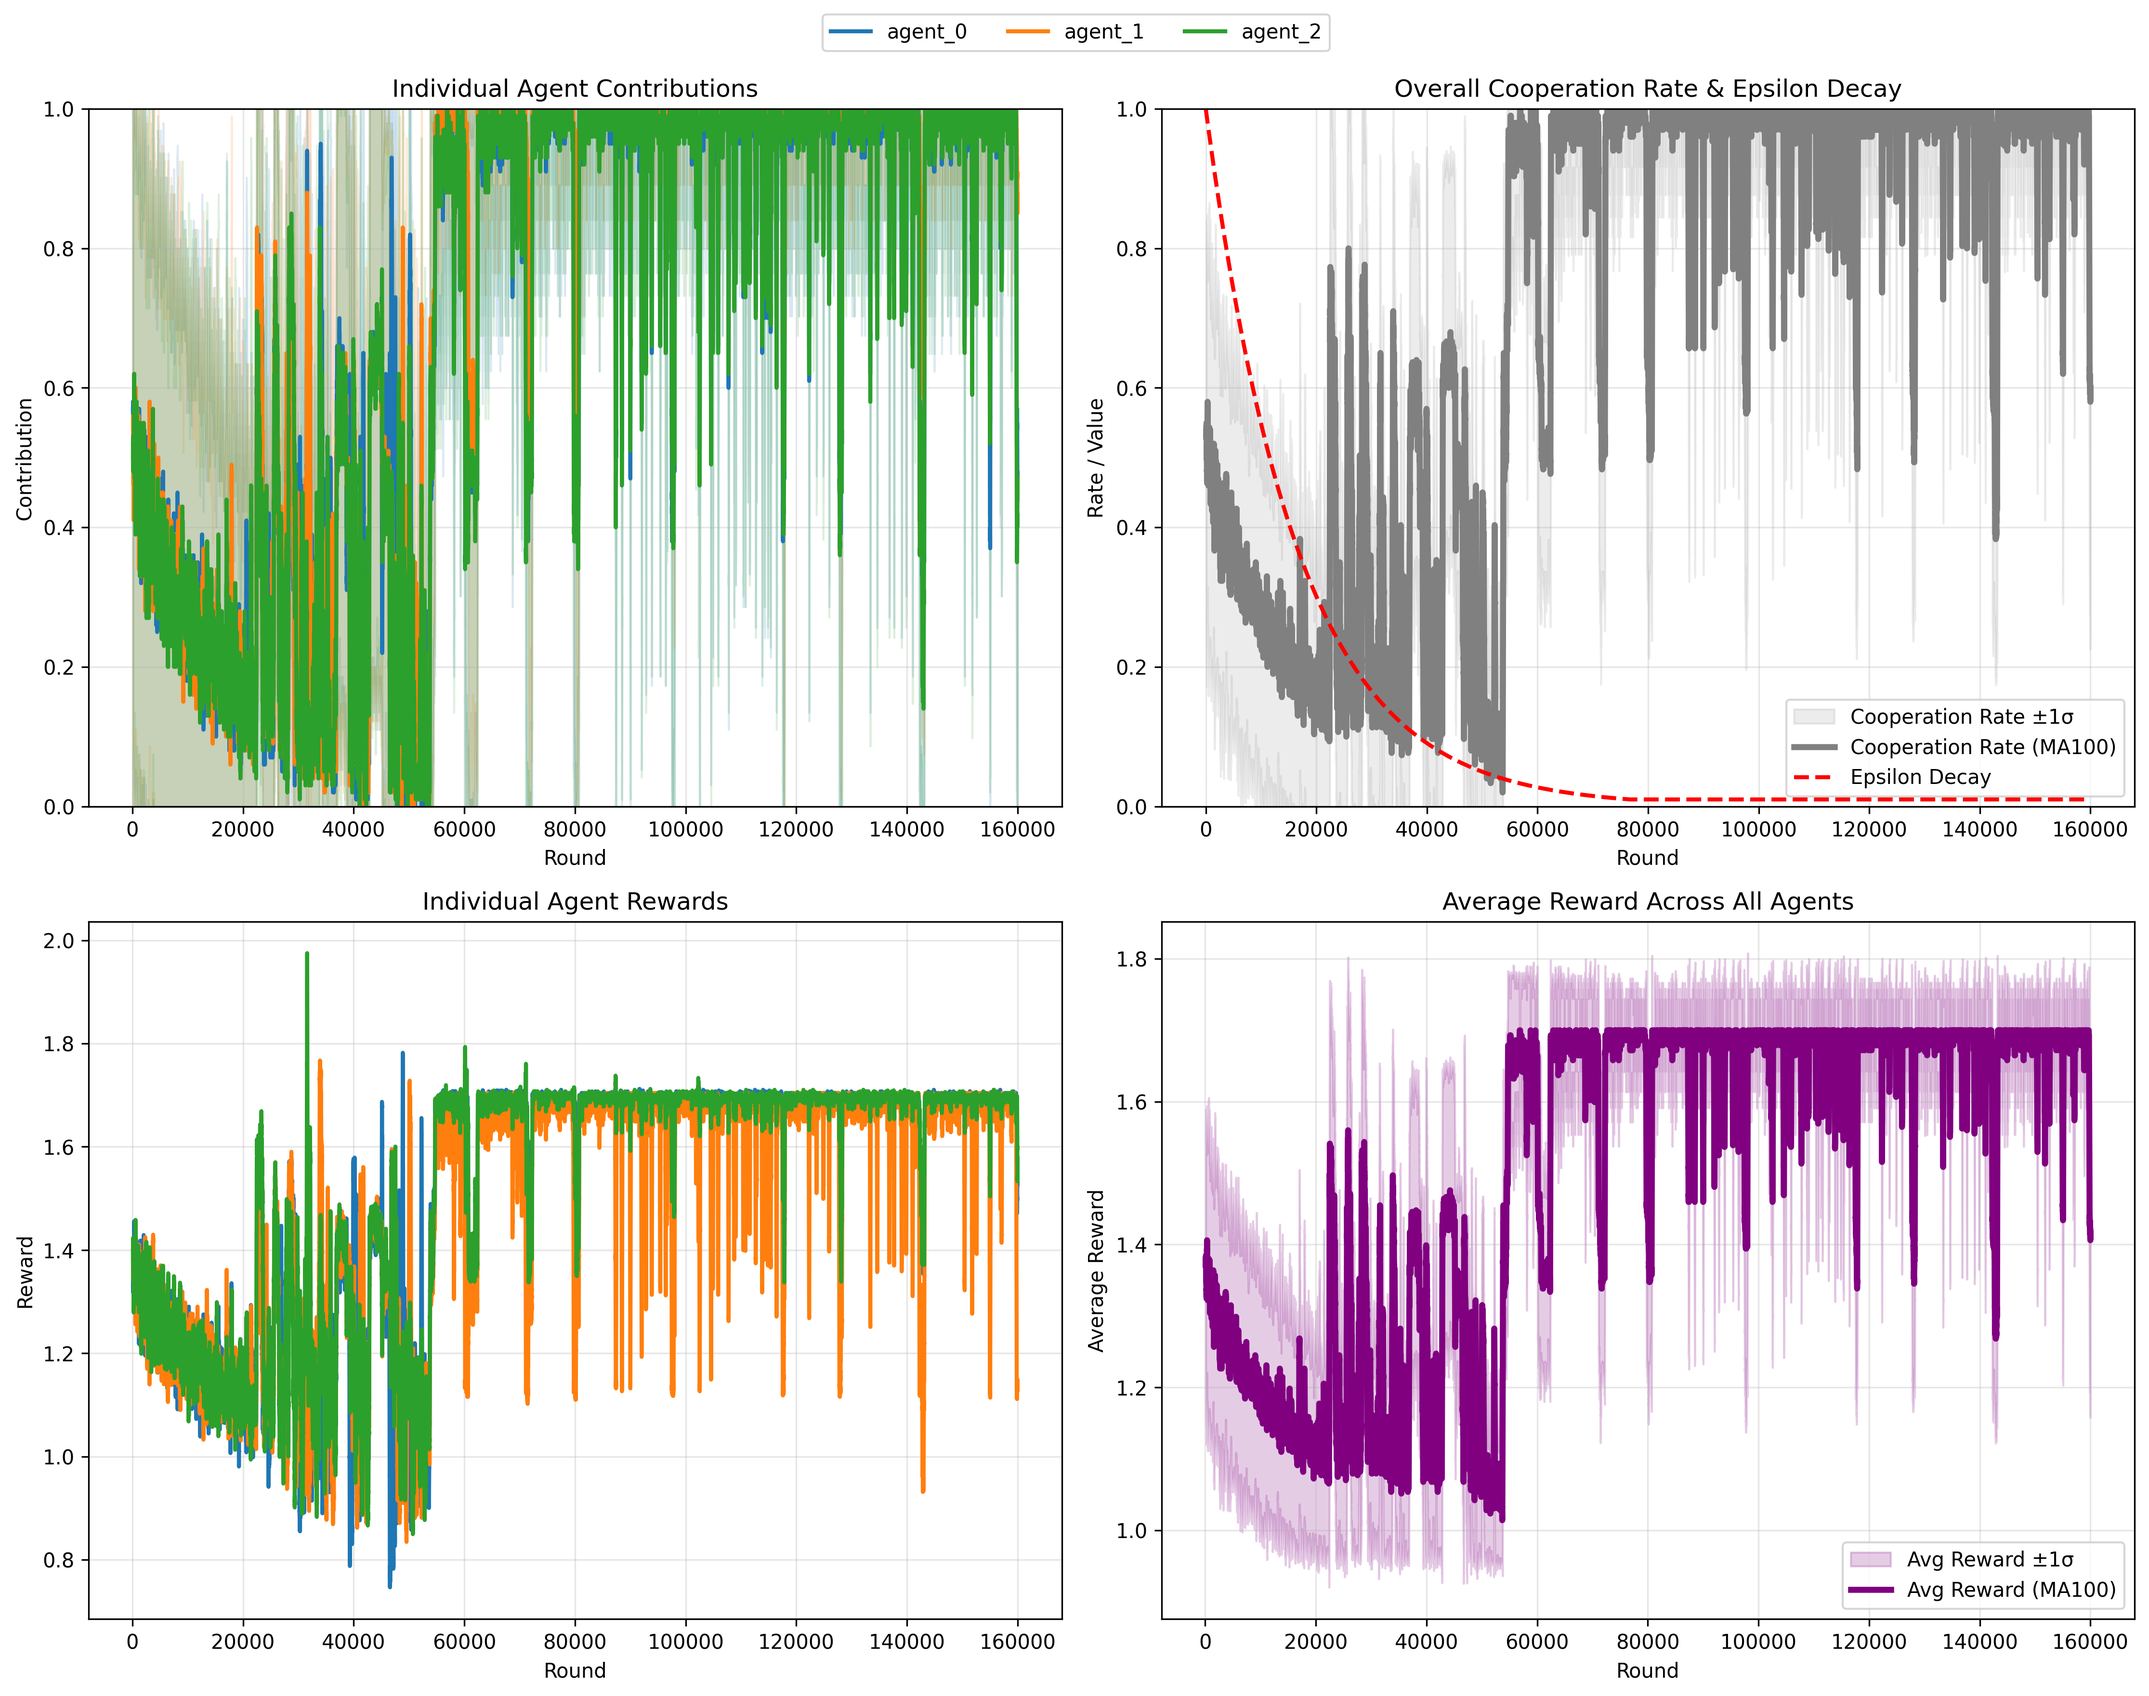
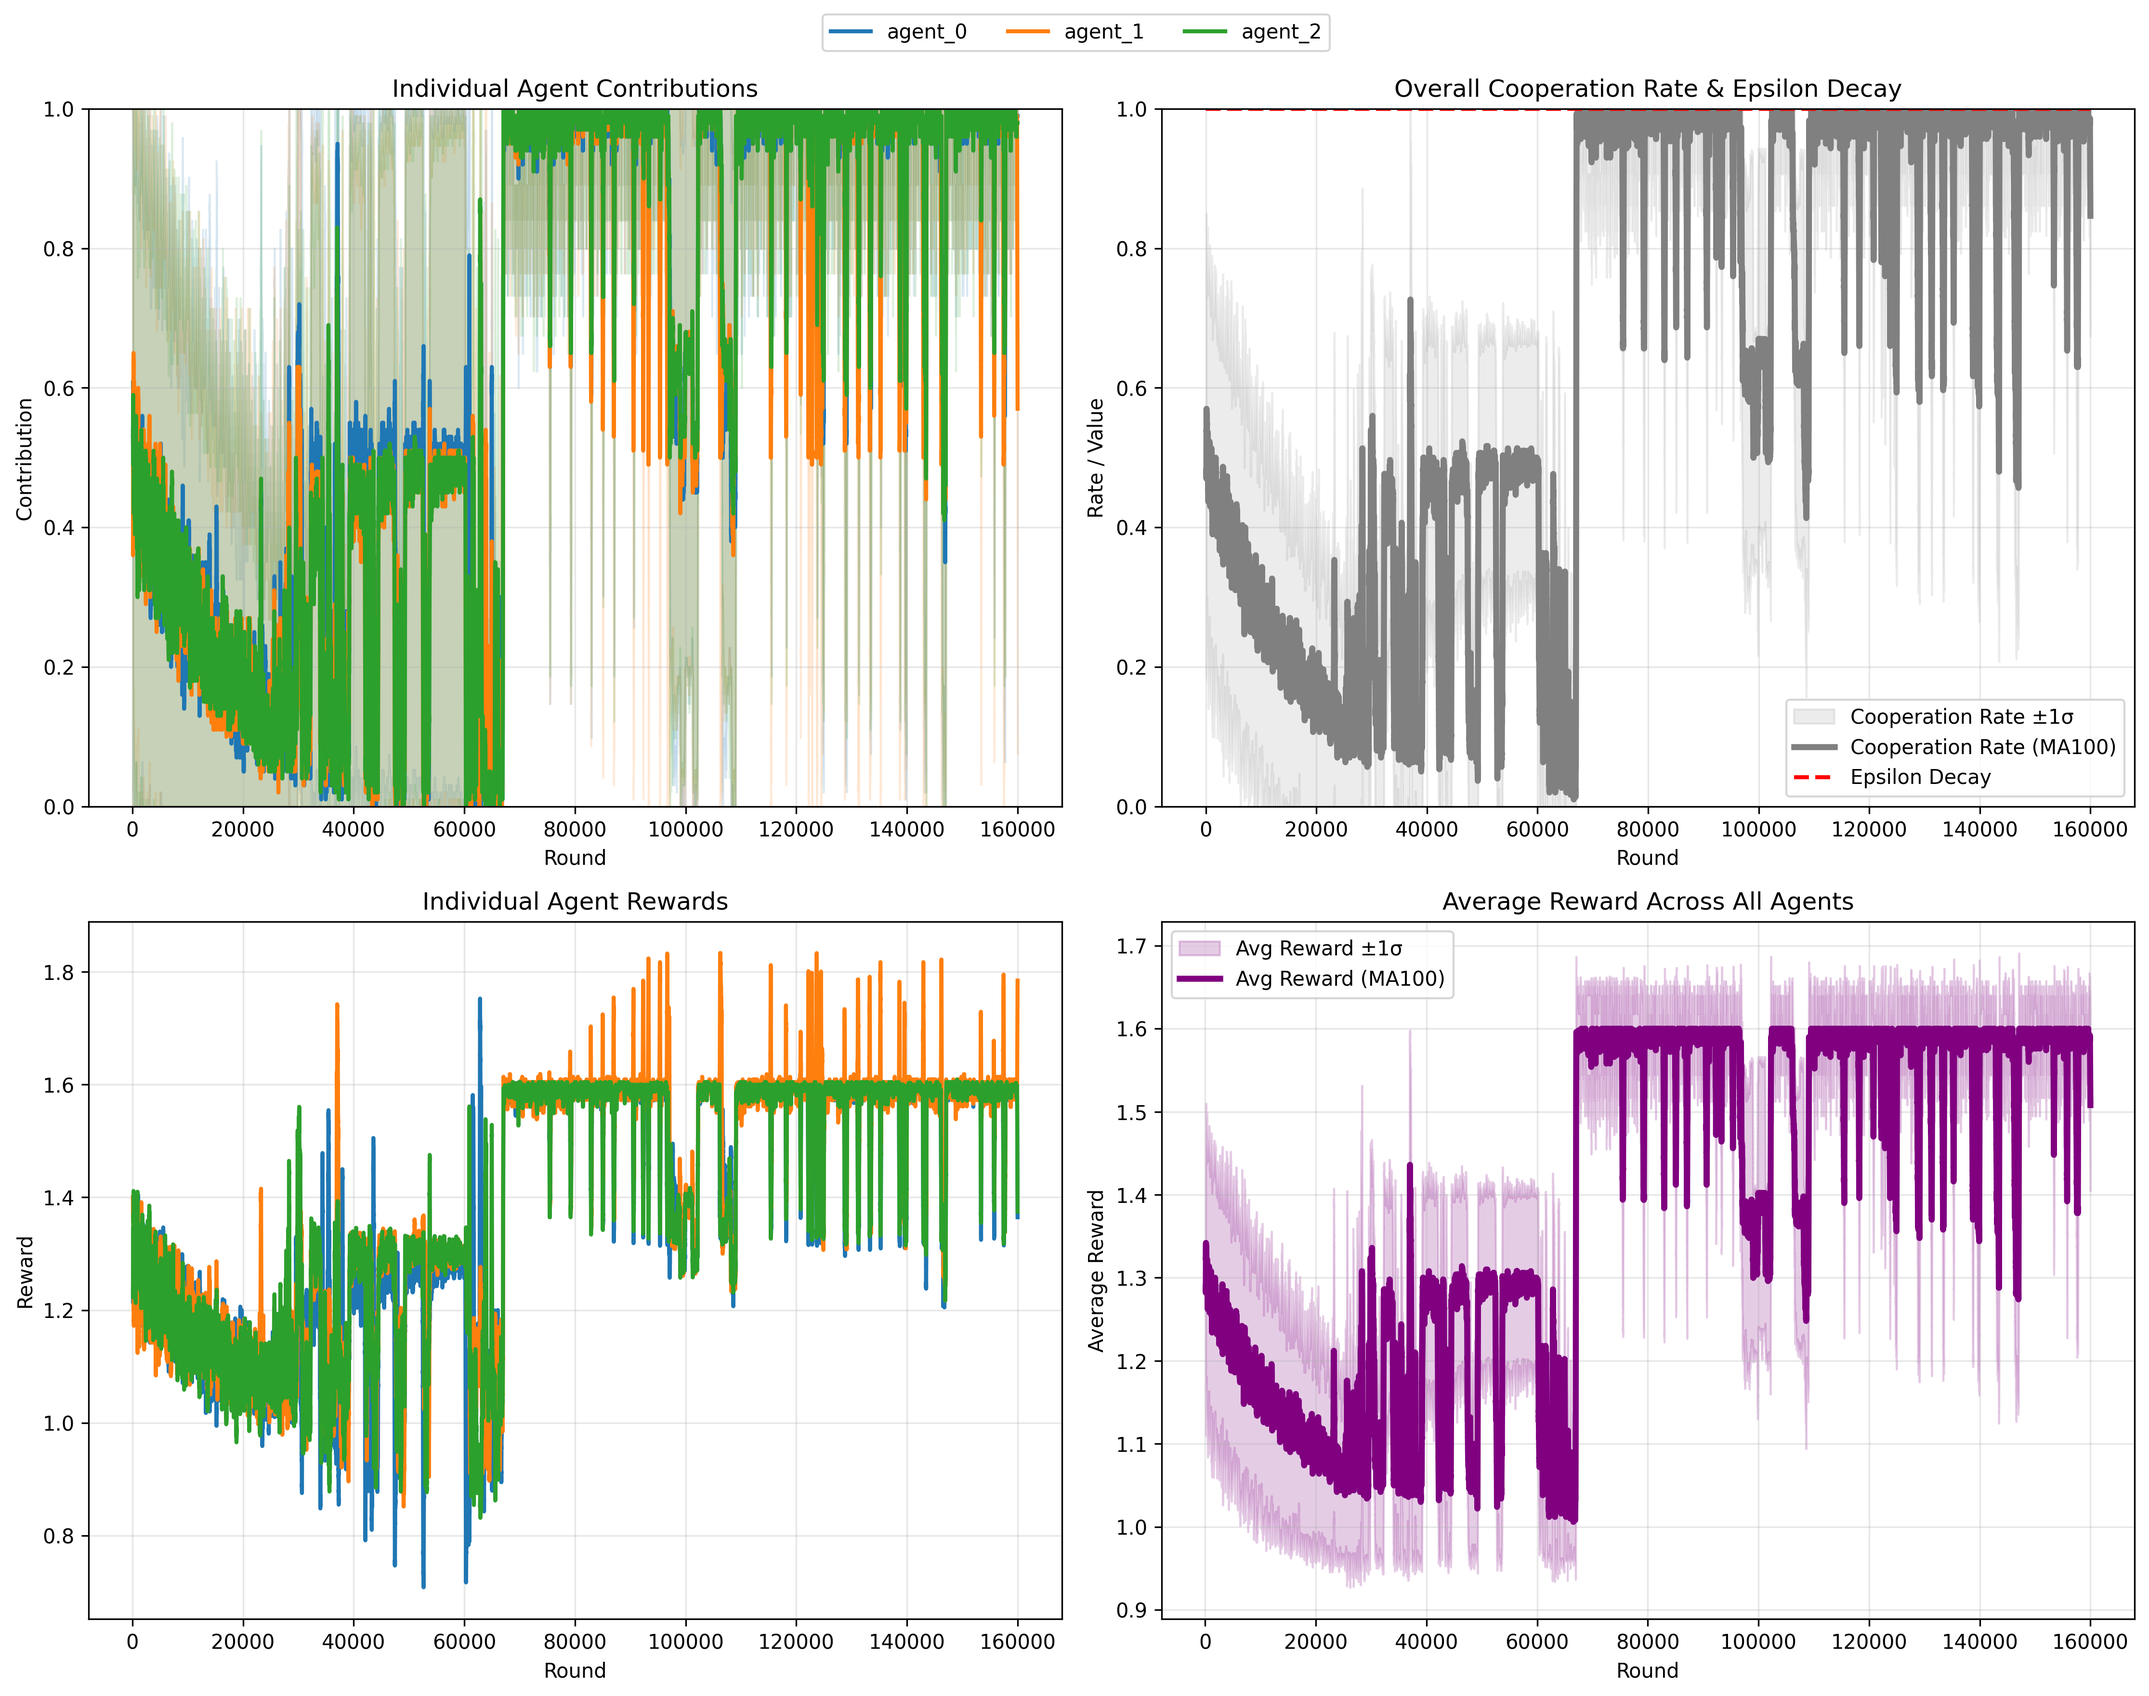
small fixes

diff --git a/agent.py b/agent.py
@@ -1,20 +1,19 @@
 import numpy as np
 from typing import Dict, Tuple
 
-def calculate_epsilon(initial_epsilon: float, decay_rate: float, step: int, min_epsilon: float) -> float:
+def calculate_epsilon(epsilon: float, decay_rate: float, min_epsilon: float) -> float:
     """
     Calculate epsilon value for given step using exponential decay.
     
     Args:
-        initial_epsilon: Initial epsilon value
+        epsilon: Current epsilon value
         decay_rate: Decay rate per step
-        step: Current step number
         min_epsilon: Minimum epsilon value
         
     Returns:
         Current epsilon value
     """
-    return max(min_epsilon, initial_epsilon * (decay_rate ** step))
+    return max(min_epsilon, epsilon * decay_rate)
 
 class TabularQLearningAgent:
     """
@@ -90,7 +89,7 @@ class TabularQLearningAgent:
             done: Whether episode is done
         """
         current_q = self.q_table[state, action]
-        
+
         # Q-learning update rule
         if done:
             target_q = reward
@@ -105,8 +104,7 @@ class TabularQLearningAgent:
         
         # Decay epsilon after each learning step
         if self.epsilon > self.epsilon_min:
-            self.epsilon *= self.epsilon_decay
-            self.epsilon = max(self.epsilon, self.epsilon_min)
+            self.epsilon = calculate_epsilon(self.epsilon, self.epsilon_decay,  self.epsilon_min)
     
 
     
@@ -124,16 +122,9 @@ class TabularQLearningAgent:
         # Learn from previous experience
         self.update_q_table(state, action, reward, next_observation, done)
     
-    def end_episode(self):
+    def increment_episode(self):
         """
-        Handle end of episode cleanup and statistics.
+        Increment episode count.
         """
         self.episode_count += 1
-    
-    def get_stats(self) -> Dict[str, float]:
-        """Get agent statistics."""
-        return {
-            "episode_count": self.episode_count,
-            "step_count": self.step_count,
-            "epsilon": self.epsilon
-        }
+

diff --git a/main.py b/main.py
@@ -106,7 +106,7 @@ def main():
         
         # End episode for all agents
         for agent in agents.values():
-            agent.end_episode()
+            agent.increment_episode()
     
     print("\nTraining completed!")
     
@@ -134,16 +134,8 @@ def main():
     print("FINAL RESULTS")
     print("=" * 60)
     print(f"Total Rounds: {round_counter}")
-    print(f"Final Overall Cooperation Rate: {round_cooperation_rates[-1]:.2%}")
     
     # Agent statistics
-    print("\nAgent Statistics:")
-    for agent_id, agent in agents.items():
-        contributions = round_contributions[agent_id]
-        recent_contrib = np.mean(contributions[-min(100, len(contributions)):]) if contributions else 0
-        stats = agent.get_stats()
-        print(f"  {agent_id}: Recent Avg Contribution: {recent_contrib:.2f}, "
-              f"Steps: {stats['step_count']}, Epsilon: {stats['epsilon']:.3f}")
 
 if __name__ == "__main__":
     main()

diff --git a/plotting.py b/plotting.py
@@ -181,7 +181,7 @@ def create_training_plots(round_contributions: Dict[str, List],
     # Calculate and plot Epsilon Decay using centralized function
     epsilon_values = []
     for round_num in range(1, round_counter + 1):
-        epsilon_val = calculate_epsilon(epsilon, epsilon_decay, round_num, epsilon_min)
+        epsilon_val = calculate_epsilon(epsilon, epsilon_decay, epsilon_min)
         epsilon_values.append(epsilon_val)
     
     ax2.plot(range(1, len(epsilon_values) + 1), epsilon_values, 'red', 

diff --git a/config.py b/config.py
@@ -2,7 +2,7 @@
 N_AGENTS = 3
 N_ROUNDS = 160000
 N_HISTORY = 1
-PGG_MULTIPLIER =1.7           
+PGG_MULTIPLIER =1.6           
 INITIAL_ENDOWMENT = 1       
 
 # Learning Parameters
@@ -14,7 +14,7 @@ EPSILON_MIN = 0.01
 
 # Training Parameters
 N_EPISODES = 1                # Number of episodes to run
-PRINT_EVERY = 1000             # Print progress every N rounds
+PRINT_EVERY = 10000             # Print progress every N rounds
 MOVING_AVERAGE_WINDOW = 100   # Window size for moving average plots
 
 

diff --git a/environment.py b/environment.py
@@ -8,8 +8,8 @@ from gymnasium import spaces
 class TabularPublicGoodsGame(ParallelEnv):
     """
     Public Goods Game environment for tabular Q-learning.
-    
-    Each agent can either contribute (1) or not contribute (0) a fixed amount.
+
+    Each agent can either contribute (1) or not contribute (0) a their endowment.
     The observation space is the history of past round contributions of all agents.
 
     """
